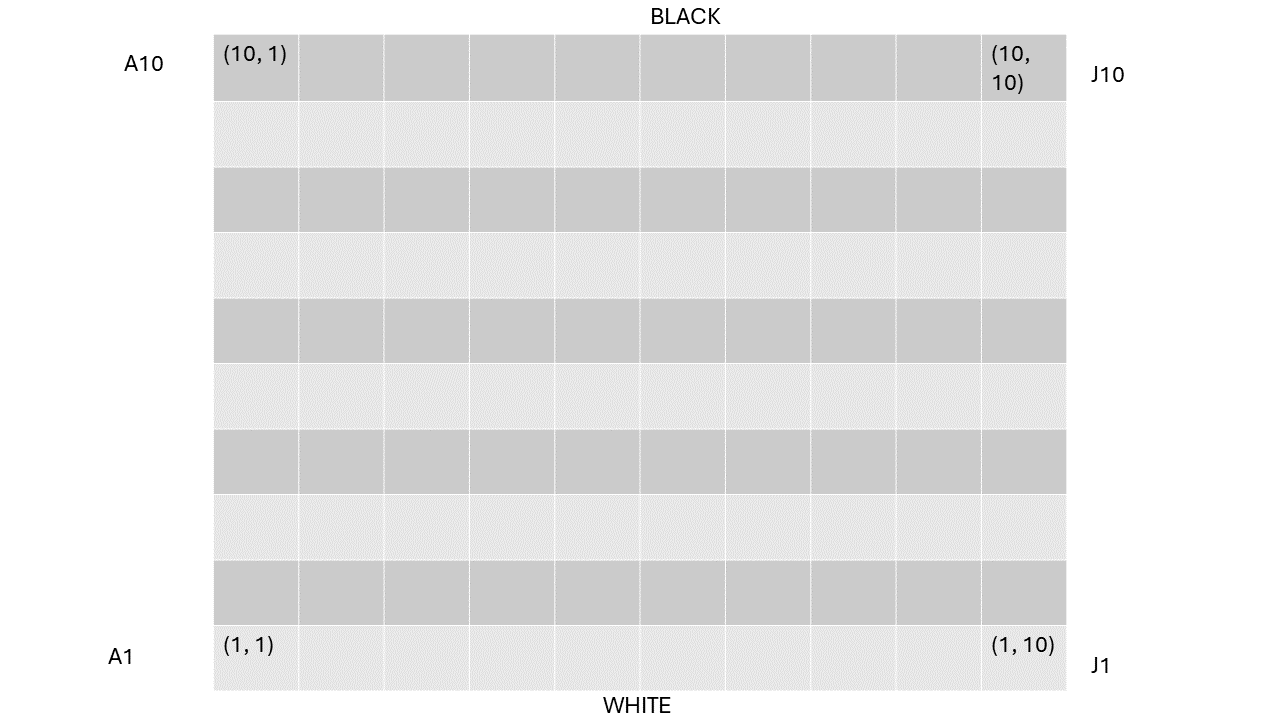
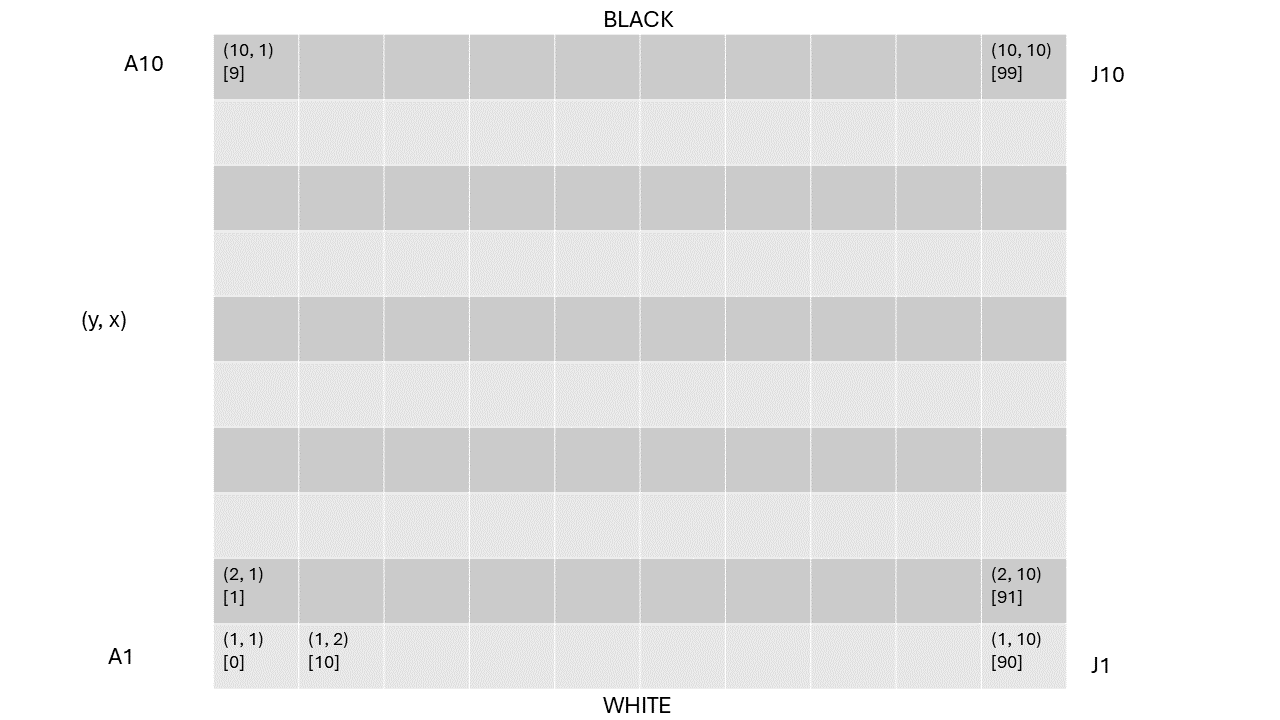
converter functions

diff --git a/team-00/src/main/java/ubc/cosc322/GameState.java b/team-00/src/main/java/ubc/cosc322/GameState.java
@@ -6,7 +6,7 @@ import java.util.Arrays;
 public class GameState 
 {
 	
-	int[] board; //1D because it is faster [0, 0] is 0.   1 is [1, 0]   10 is [0, 1]
+	int[] board; //1D
 
 	boolean whiteTurn; //true if white to move, false if black to move
 	
@@ -27,7 +27,6 @@ public class GameState
 		this.whiteTurn = whiteTurn;
 	}
 	
-	
 	//white = true means checking white, false means checking black
 	//function returns true if the colour being checked has won the game in this state
 	public boolean checkWin(boolean white)
@@ -35,6 +34,24 @@ public class GameState
 		//TODO: implement.
 		return false;
 	}
+	
+	//0 indexed arrays, 1 indexed board notation because ???
+	public static int yxToIndex(int y, int x)
+	{
+		System.out.println("Returning: ");
+		return (y - 1) + 10* (x - 1);
+	}
+	
+	public static int[] indexToYX(int index)
+	{
+		int y = (index % 10) + 1;
+		int x = (index / 10) + 1;
+		
+		int[] output = {y, x};
+		
+		return output;
+	}
+	
 	
 	@Override
 	public boolean equals(Object other)
